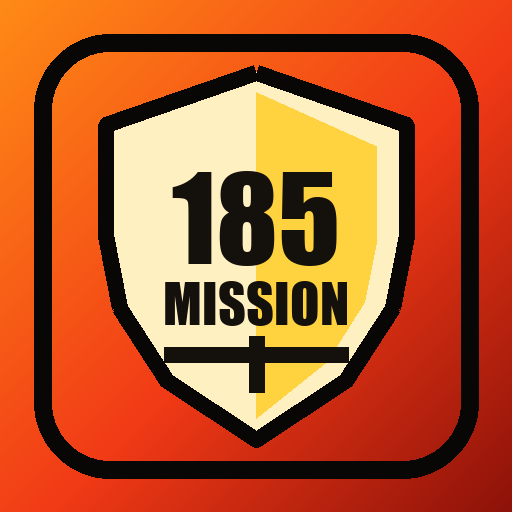
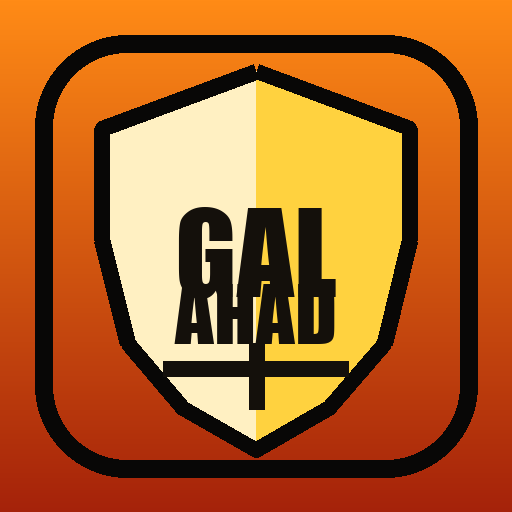
Rename app to Galahad

diff --git a/index.html b/index.html
@@ -5,11 +5,11 @@
   <meta name="viewport" content="width=device-width, initial-scale=1, viewport-fit=cover" />
   <meta name="theme-color" content="#f13a16" />
   <meta name="apple-mobile-web-app-capable" content="yes" />
-  <meta name="apple-mobile-web-app-title" content="185 Mission" />
+  <meta name="apple-mobile-web-app-title" content="Galahad" />
   <link rel="manifest" href="./manifest.webmanifest" />
   <link rel="icon" href="./icon.svg" />
   <link rel="apple-touch-icon" href="./apple-touch-icon.png" />
-  <title>185 Mission</title>
+  <title>Galahad</title>
   <style>
     :root{
       --red:#f13a16;
@@ -43,30 +43,31 @@
     .masthead h1{font-family:var(--font-head);font-size:47px;line-height:.88;margin:0;color:var(--orange);letter-spacing:.02em;text-shadow:3px 3px 0 #000,-1px -1px 0 var(--yellow);transform:skew(3deg);text-transform:uppercase}
     .masthead .sub{font-family:var(--font-mono);font-size:12px;color:var(--yellow);letter-spacing:1px;margin-top:5px;transform:skew(3deg);font-weight:900}
     .topRow{display:flex;align-items:center;justify-content:space-between;gap:8px;margin-bottom:10px}.date{background:var(--cream);color:var(--ink);border:3px solid var(--black);box-shadow:4px 4px 0 #000;padding:8px 10px;font-family:var(--font-mono);font-size:12px;font-weight:900}.missionTag{background:var(--yellow);color:var(--ink);border:3px solid #000;box-shadow:4px 4px 0 #000;padding:8px 10px;font-family:var(--font-head);font-size:20px;letter-spacing:.03em;text-transform:uppercase;white-space:nowrap}
-    .tabs{display:grid;grid-template-columns:repeat(4,1fr);gap:7px;margin-bottom:12px}.tab{min-height:46px;background:#22160d;color:var(--cream);border:3px solid var(--black);box-shadow:3px 3px 0 #000;font-family:var(--font-head);font-size:17px;text-transform:uppercase;letter-spacing:.02em}.tab.active{background:var(--yellow);color:var(--ink)}
+    .tabs{display:grid;grid-template-columns:repeat(5,1fr);gap:7px;margin-bottom:12px}.tab{min-height:46px;background:#22160d;color:var(--cream);border:3px solid var(--black);box-shadow:3px 3px 0 #000;font-family:var(--font-head);font-size:17px;text-transform:uppercase;letter-spacing:.02em}.tab.active{background:var(--yellow);color:var(--ink)}
     .section{display:none}.section.active{display:block;animation:pop .15s ease}@keyframes pop{from{opacity:.65;transform:translateY(3px)}to{opacity:1;transform:none}}
     .panel{background:var(--panel);border:4px solid #000;box-shadow:var(--shadow);padding:12px;margin-bottom:12px;position:relative}.panel:before{content:"";position:absolute;inset:4px;border:1px solid rgba(255,210,63,.18);pointer-events:none}.panel.orange{background:linear-gradient(180deg,#ff9d19,#df5d12);color:var(--ink)}.panel.cream{background:var(--cream);color:var(--ink)}
     .sectionTitle{display:inline-block;background:var(--yellow);color:#111;border:3px solid #000;box-shadow:4px 4px 0 #000;font-family:var(--font-head);font-size:24px;text-transform:uppercase;letter-spacing:.02em;padding:4px 9px;margin:0 0 10px;transform:skew(-5deg)}.sectionTitle span{display:block;transform:skew(5deg)}
     .verse{font-family:Georgia,serif;font-weight:800;font-size:24px;line-height:1.16;margin:2px 0 8px;color:#140b06}.ref{font-family:var(--font-head);font-size:20px;text-transform:uppercase;margin:0;color:#3b1908}.focus{font-size:16px;line-height:1.25;font-weight:900;margin:12px 0 0;background:rgba(0,0,0,.12);border:2px solid #000;padding:9px}
-    .hud{display:grid;grid-template-columns:1fr;gap:10px;align-items:stretch}.portrait{background:#7d4e61;border:3px solid #000;min-height:188px;display:grid;place-items:center;position:relative;overflow:hidden}.portrait:after{content:"";position:absolute;inset:0;background:linear-gradient(transparent 48%,rgba(255,255,255,.07) 50%,transparent 52%) 0 0/100% 6px;pointer-events:none}.warriorGif{width:100%;height:auto;aspect-ratio:800/330;display:block;object-fit:contain;object-position:center;image-rendering:pixelated}.portrait.miss .warriorGif{filter:grayscale(.45);opacity:.9}.portrait.ready .warriorGif{filter:drop-shadow(0 0 8px rgba(255,210,63,.55))}.portrait.full .warriorGif{filter:drop-shadow(0 0 12px var(--green));animation:fullPulse .75s steps(2,end) infinite}.rank{background:#17100a;border:3px solid #000;text-align:center;padding:10px;display:flex;align-items:center;justify-content:space-between;gap:12px}.rank b{font-family:var(--font-head);font-size:42px;color:var(--yellow);text-shadow:3px 3px 0 #000,-1px -1px 0 var(--orange);line-height:.82;letter-spacing:.03em}.rank span{font-family:var(--font-head);font-size:20px;color:var(--muted);font-weight:900;text-transform:uppercase;line-height:.9}.hydrationBox{margin-top:10px;background:#120d09;border:3px solid #000;box-shadow:4px 4px 0 #000;padding:10px;display:grid;grid-template-columns:72px 1fr;gap:12px;align-items:center}.waterGlass{width:54px;height:76px;border:4px solid #000;border-top-width:7px;border-radius:5px 5px 12px 12px;background:rgba(255,255,255,.18);position:relative;overflow:hidden;box-shadow:4px 4px 0 #000, inset 5px 0 0 rgba(255,255,255,.22);justify-self:center}.waterGlass:before{content:"";position:absolute;left:9px;top:8px;width:8px;height:50px;background:rgba(255,255,255,.35);z-index:3}.waterFill{position:absolute;left:0;right:0;bottom:0;height:0%;background:linear-gradient(180deg,#62e9ff,#168cff);border-top:3px solid #b8fbff;transition:height .45s ease;animation:waterWave 1.2s ease-in-out infinite}.waterFil... [truncated]
+    .hud{display:grid;grid-template-columns:1fr;gap:10px;align-items:stretch}.portrait{background:#7d4e61;border:3px solid #000;min-height:188px;display:grid;place-items:center;position:relative;overflow:hidden}.portrait:after{content:"";position:absolute;inset:0;background:linear-gradient(transparent 48%,rgba(255,255,255,.07) 50%,transparent 52%) 0 0/100% 6px;pointer-events:none}.warriorGif{width:100%;height:auto;aspect-ratio:800/330;display:block;object-fit:contain;object-position:center;image-rendering:pixelated}.portrait.miss .warriorGif{filter:grayscale(.45);opacity:.9}.portrait.ready .warriorGif{filter:drop-shadow(0 0 8px rgba(255,210,63,.55))}.portrait.full .warriorGif{filter:drop-shadow(0 0 12px var(--green));animation:fullPulse .75s steps(2,end) infinite}.rank{background:#17100a;border:3px solid #000;text-align:center;padding:10px;display:flex;align-items:center;justify-content:space-between;gap:12px}.rank b{font-family:var(--font-head);font-size:42px;color:var(--yellow);text-shadow:3px 3px 0 #000,-1px -1px 0 var(--orange);line-height:.82;letter-spacing:.03em}.rank span{font-family:var(--font-head);font-size:20px;color:var(--muted);font-weight:900;text-transform:uppercase;line-height:.9}.hydrationBox{margin-top:10px;background:#120d09;border:3px solid #000;box-shadow:4px 4px 0 #000;padding:10px;display:grid;grid-template-columns:72px 1fr;gap:12px;align-items:center}.waterGlass{width:54px;height:76px;border:4px solid #000;border-top-width:7px;border-radius:5px 5px 12px 12px;background:rgba(255,255,255,.18);position:relative;overflow:hidden;box-shadow:4px 4px 0 #000, inset 5px 0 0 rgba(255,255,255,.22);justify-self:center}.waterGlass:before{content:"";position:absolute;left:9px;top:8px;width:8px;height:50px;background:rgba(255,255,255,.35);z-index:3}.waterFill{position:absolute;left:0;right:0;bottom:0;height:0%;background:linear-gradient(180deg,#62e9ff,#168cff);border-top:3px solid #b8fbff;transition:height .45s ease;animation:waterWave 1.2s ease-in-out infin... [truncated]
     .progressBox{margin-top:10px}.barLabel{display:flex;justify-content:space-between;gap:10px;font-family:var(--font-head);font-size:20px;color:var(--yellow);text-transform:uppercase;margin-bottom:5px}.track{height:24px;background:#070504;border:3px solid #000;padding:3px}.fill{height:100%;width:0%;background:repeating-linear-gradient(90deg,var(--green) 0 12px,#6ecb35 12px 16px);box-shadow:0 0 12px rgba(141,255,74,.5);transition:width .3s ease}
     .statusStrip{background:#120d09;border:3px solid #000;box-shadow:4px 4px 0 #000;padding:10px;margin-bottom:12px;display:flex;justify-content:space-between;gap:12px;align-items:center}.statusStrip b{font-family:var(--font-head);font-size:24px;color:var(--yellow);text-transform:uppercase}.statusStrip span{font-weight:900;color:var(--cream);font-size:16px;text-align:right}.statusStrip.missing{background:#3a100b}.statusStrip.missing b{color:#ffb23d}
     .metrics{display:grid;grid-template-columns:repeat(2,1fr);gap:9px}.metric{background:#120d09;border:3px solid #000;box-shadow:4px 4px 0 #000;padding:10px;min-height:94px}.metric .name{font-family:var(--font-head);font-size:18px;text-transform:uppercase;color:var(--muted);line-height:.95}.metric .num{font-family:var(--font-head);font-size:36px;line-height:.9;color:var(--cream);text-shadow:2px 2px 0 #000;margin-top:16px}.metric.good .num{color:var(--green)}
     .actions{display:grid;grid-template-columns:1fr 1fr;gap:9px;margin-top:12px}.btn,.primary,.secondary,.danger{min-height:52px;border:3px solid #000;box-shadow:4px 4px 0 #000;font-family:var(--font-head);font-size:22px;text-transform:uppercase;letter-spacing:.02em}.primary{background:var(--yellow);color:var(--ink);width:100%}.secondary{background:#2a1b10;color:var(--cream);width:100%}.danger{background:var(--danger);color:#fff;width:100%}.btn:active,.primary:active,.secondary:active,.danger:active{transform:translate(3px,3px);box-shadow:1px 1px 0 #000}
     form{display:grid;gap:10px}.field{background:#120d09;border:3px solid #000;box-shadow:4px 4px 0 #000;padding:10px}.field.hidden{display:none}.field label{display:block;font-family:var(--font-head);font-size:20px;text-transform:uppercase;color:var(--yellow);margin-bottom:6px}.field input,.field select{width:100%;min-height:48px;background:#fff5cf;color:#111;border:3px solid #000;padding:10px;font-size:20px;font-weight:900}
     .bodyText{font-size:18px;line-height:1.28;font-weight:850;margin:0}.list{display:grid;gap:10px}.historyItem{background:#120d09;border:3px solid #000;box-shadow:4px 4px 0 #000;padding:10px}.historyItem b{font-family:var(--font-head);font-size:21px;color:var(--yellow);text-transform:uppercase}.historyItem p{margin:4px 0 0;color:var(--cream);font-weight:800}.check{color:var(--green);font-family:var(--font-head);font-size:22px}.x{color:var(--danger);font-family:var(--font-head);font-size:22px}.timer{font-family:var(--font-head);font-size:68px;text-align:center;color:var(--green);text-shadow:3px 3px 0 #000;margin:8px 0}.toast{position:fixed;left:50%;bottom:20px;transform:translateX(-50%) translateY(18px);opacity:0;background:var(--yellow);color:#111;border:3px solid #000;box-shadow:5px 5px 0 #000;padding:10px 14px;font-family:var(--font-head);font-size:20px;text-transform:uppercase;z-index:20;transition:.2s}.toast.show{opacity:1;transform:translateX(-50%) translateY(0)}
-    .waterLine{display:flex;align-items:center;justify-content:space-between;gap:10px;margin-top:4px}.waterLine b{font-family:var(--font-head);font-size:22px;color:var(--cream);text-transform:uppercase}.waterAdd{min-width:70px;min-height:44px;background:linear-gradient(180deg,var(--yellow),var(--orange));color:#14100b;border:3px solid #000;box-shadow:4px 4px 0 #000;font-family:var(--font-head);font-size:21px;text-transform:uppercase;letter-spacing:.02em;transform:skew(-6deg)}.waterAdd span{display:block;transform:skew(6deg)}.waterAdd:before{content:'♕';margin-right:4px}.waterAdd:active{transform:skew(-6deg) translate(3px,3px);box-shadow:1px 1px 0 #000}.settingsDock{margin-top:18px;padding-bottom:8px}.settingsBtn{width:100%;min-height:54px;background:#080706;color:var(--yellow);border:4px solid #000;box-shadow:6px 6px 0 #000;font-family:var(--font-head);font-size:24px;text-transform:uppercase;letter-spacing:.04em}.settingsBtn span{color:var(--cream);font-size:18px}.settingsGrid{display:grid;gap:10px}.settingsNote{font-size:16px;font-weight:900;line-height:1.25;margin:0 0 10px;background:rgba(0,0,0,.14);border:2px solid #000;padding:9px}.miniRow{display:grid;grid-template-columns:1fr 1fr;gap:10px}.miniRow .secondary,.miniRow .primary{min-height:48px;font-size:20px}@media(max-width:390px){.app{padding:10px 9px 30px}.masthead h1{font-size:39px}.tab{font-size:15px}.metrics{grid-template-columns:1fr 1fr}.metric .num{font-size:31px}.verse{font-size:21px}.actions{grid-template-columns:1fr}.missionTag{font-size:17px}.sectionTitle{font-size:22px}.portrait{min-height:154px}.waterLine{align-items:stretch;flex-direction:column}.waterAdd{width:100%}}
+    .waterLine{display:flex;align-items:center;justify-content:space-between;gap:10px;margin-top:4px}.waterLine b{font-family:var(--font-head);font-size:22px;color:var(--cream);text-transform:uppercase}.waterAdd{min-width:70px;min-height:44px;background:linear-gradient(180deg,var(--yellow),var(--orange));color:#14100b;border:3px solid #000;box-shadow:4px 4px 0 #000;font-family:var(--font-head);font-size:21px;text-transform:uppercase;letter-spacing:.02em;transform:skew(-6deg)}.waterAdd span{display:block;transform:skew(6deg)}.waterAdd:before{content:'♕';margin-right:4px}.waterAdd:active{transform:skew(-6deg) translate(3px,3px);box-shadow:1px 1px 0 #000}.settingsDock{margin-top:18px;padding-bottom:8px}.settingsBtn{width:100%;min-height:54px;background:#080706;color:var(--yellow);border:4px solid #000;box-shadow:6px 6px 0 #000;font-family:var(--font-head);font-size:24px;text-transform:uppercase;letter-spacing:.04em}.settingsBtn span{color:var(--cream);font-size:18px}.settingsGrid{display:grid;gap:10px}.settingsNote{font-size:16px;font-weight:900;line-height:1.25;margin:0 0 10px;background:rgba(0,0,0,.14);border:2px solid #000;padding:9px}.miniRow{display:grid;grid-template-columns:1fr 1fr;gap:10px}.miniRow .secondary,.miniRow .primary{min-height:48px;font-size:20px}@media(max-width:390px){.app{padding:10px 9px 30px}.masthead h1{font-size:42px}.tab{font-size:13px}.metrics{grid-template-columns:1fr 1fr}.metric .num{font-size:31px}.verse{font-size:21px}.actions{grid-template-columns:1fr}.missionTag{font-size:17px}.sectionTitle{font-size:22px}.portrait{min-height:154px}.waterLine{align-items:stretch;flex-direction:column}.waterAdd{width:100%}}
   </style>
 </head>
 <body>
   <div class="app">
-    <header class="masthead"><h1>185 Mission</h1><div class="sub">REAL LIFE MODE // KNIGHT QUEST</div></header>
+    <header class="masthead"><h1>Galahad</h1><div class="sub">STRENGTH OF TEN // PURE OF HEART</div></header>
     <div class="topRow"><div class="date" id="todayDate">Today</div><div class="missionTag">Level 01</div></div>
     <nav class="tabs" aria-label="Sections">
       <button class="tab active" data-tab="home" onclick="showTab('home')">Today</button>
       <button class="tab" data-tab="checkin" onclick="showTab('checkin')">Log</button>
       <button class="tab" data-tab="progress" onclick="showTab('progress')">Stats</button>
       <button class="tab" data-tab="plan" onclick="showTab('plan')">Plan</button>
+      <button class="tab" data-tab="galahad" onclick="showTab('galahad')">Galahad</button>
     </nav>
 
     <main>
@@ -129,6 +130,15 @@
         <div class="panel"><h2 class="sectionTitle"><span>Food</span></h2><p class="bodyText">Meat first. 180–210g protein. Cheat days planned, not emotional.</p></div>
       </section>
 
+
+      <section id="galahad" class="section">
+        <div class="panel orange"><h2 class="sectionTitle"><span>Who Is Galahad?</span></h2><p class="bodyText">Galahad is the pure knight of Arthurian legend: the Round Table knight worthy to achieve the Holy Grail.</p></div>
+        <div class="panel cream"><h2 class="sectionTitle"><span>Strength of Ten</span></h2><p class="verse">“My strength is as the strength of ten, because my heart is pure.”</p><p class="ref">— Tennyson, Sir Galahad</p></div>
+        <div class="panel"><h2 class="sectionTitle"><span>The Knight</span></h2><p class="bodyText">Courage without ego. Strength under control. A man who fights better because his soul is ordered.</p></div>
+        <div class="panel"><h2 class="sectionTitle"><span>The Faith</span></h2><p class="bodyText">The Grail quest points toward Christ, grace, sacrifice, and holiness. Galahad is not an official saint, but he is a powerful Christian image of purity and purpose.</p></div>
+        <div class="panel"><h2 class="sectionTitle"><span>The Quest</span></h2><p class="bodyText">You are not expected to be perfect. You are on the quest: train the body, guard the soul, lead the household, and become the man your kingdom needs.</p></div>
+      </section>
+
       <section id="craving" class="section">
         <div class="panel">
           <h2 class="sectionTitle"><span>Boss Fight</span></h2>
@@ -156,7 +166,7 @@
   <div class="toast" id="toast">Saved.</div>
 
 <script>
-const DEFAULT_RULES={start:210,target:185,protein:185}, WATER_TARGET=6, KEY='betterDadLogs', RULES_KEY='betterDadRules';
+const DEFAULT_RULES={start:210,target:185,protein:185}, WATER_TARGET=6, KEY='galahadLogs', OLD_KEY='betterDadLogs', RULES_KEY='galahadRules', OLD_RULES_KEY='betterDadRules';
 const verses=[
   {t:'“The Lord is my strength and my shield; in him my heart trusts.”', r:'Psalm 28:7', f:'Objective: choose presence over escape.'},
   {t:'“I can do all things through him who strengthens me.”', r:'Philippians 4:13', f:'Objective: one sober decision at a time.'},
@@ -167,6 +177,7 @@ const verses=[
   {t:'“Let us not grow weary of doing good, for in due season we will reap.”', r:'Galatians 6:9', f:'Objective: consistency compounds.'}
 ];
 const $=id=>document.getElementById(id);
+function migrateStorage(){if(!localStorage.getItem(KEY)&&localStorage.getItem(OLD_KEY))localStorage.setItem(KEY,localStorage.getItem(OLD_KEY));if(!localStorage.getItem(RULES_KEY)&&localStorage.getItem(OLD_RULES_KEY))localStorage.setItem(RULES_KEY,localStorage.getItem(OLD_RULES_KEY));}
 function logs(){return JSON.parse(localStorage.getItem(KEY)||'[]')}
 function saveLogs(v){localStorage.setItem(KEY,JSON.stringify(v))}
 function rules(){return {...DEFAULT_RULES,...JSON.parse(localStorage.getItem(RULES_KEY)||'{}')}}
@@ -227,7 +238,7 @@ $('rulesForm').addEventListener('submit',e=>{e.preventDefault(); const next={sta
 function resetRules(){saveRules(DEFAULT_RULES); loadRulesForm(); render(); showToast('Rules reset')}
 function quickAddWater(){let v=logs(); const t=today(); let entry=v.find(l=>l.date===t); if(!entry){entry={date:t,water:0,partial:true}; v.push(entry)} entry.water=Math.min(12, Number(entry.water||0)+1); saveLogs(v); render(); showToast('Chalice +1')};
 let int=null, left=600; function startTimer(){clearInterval(int); left=600; $('timer').textContent='10:00'; int=setInterval(()=>{left--; const m=String(Math.floor(left/60)).padStart(2,'0'), s=String(left%60).padStart(2,'0'); $('timer').textContent=`${m}:${s}`; if(left<=0){clearInterval(int); showToast('Reset complete')}},1000)}
-setVerse(); updateDrinksField(); loadRulesForm(); render();
+migrateStorage(); setVerse(); updateDrinksField(); loadRulesForm(); render();
 if ('serviceWorker' in navigator && location.protocol !== 'file:') navigator.serviceWorker.register('./service-worker.js').catch(()=>{});
 </script>
 </body>

diff --git a/service-worker.js b/service-worker.js
@@ -1,4 +1,4 @@
-const CACHE = 'better-dad-v7';
+const CACHE = 'galahad-v1';
 const ASSETS = [
   './index.html',
   './manifest.webmanifest',